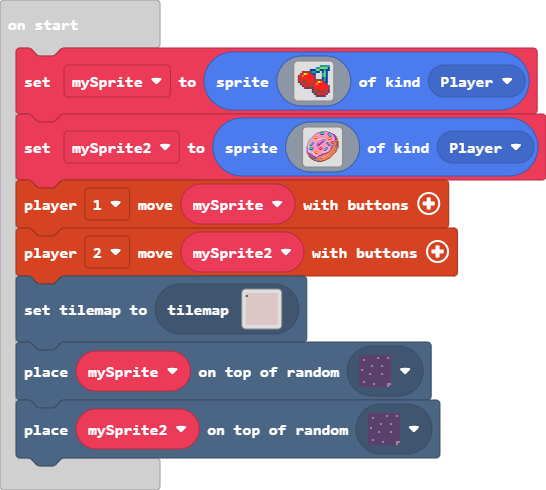
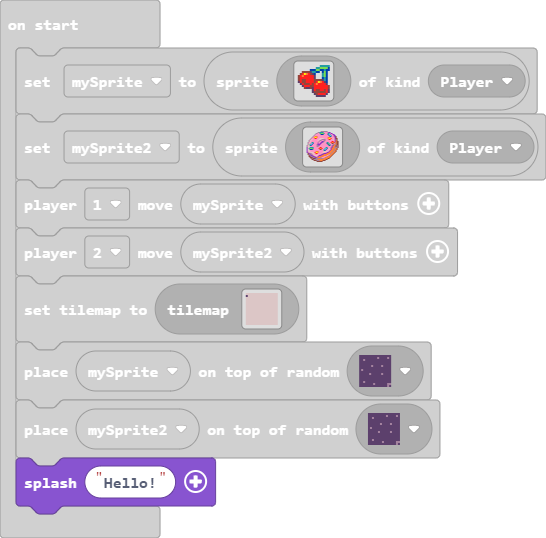
Update main.blocks, main.ts

diff --git a/main.ts b/main.ts
@@ -55,3 +55,4 @@ controller.player2.moveSprite(mySprite2)
 tiles.setCurrentTilemap(tilemap`level1`)
 tiles.placeOnRandomTile(mySprite, sprites.dungeon.darkGroundNorthWest1)
 tiles.placeOnRandomTile(mySprite2, sprites.dungeon.darkGroundNorthWest1)
+game.splash("Hello!")
